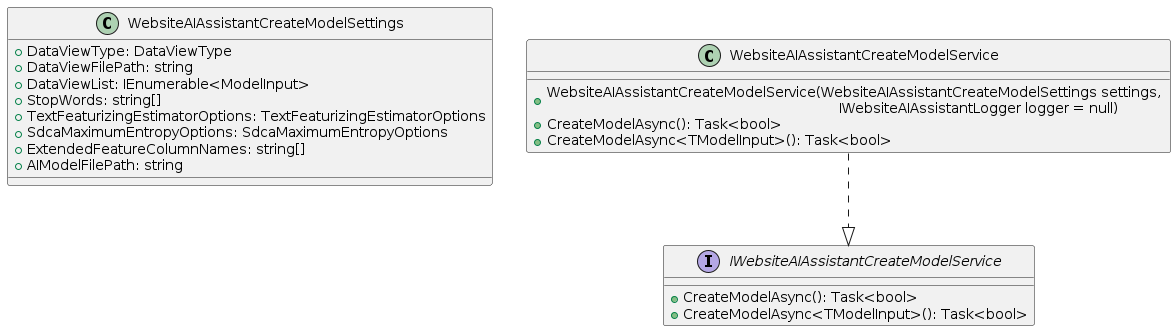
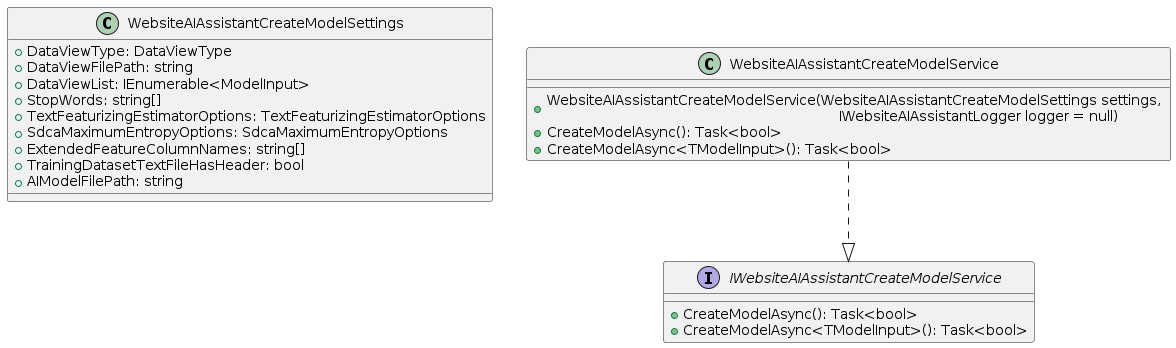
added TrainingDatasetTextFileHasHeader property to enable a header row in the training data file.

diff --git a/WebsiteAIAssistant/PredictionEngine.cs b/WebsiteAIAssistant/PredictionEngine.cs
@@ -30,6 +30,7 @@ namespace WebsiteAIAssistant
         public static string AIModelLoadFilePath { get; set; }
         public static bool IsPredictionEngineInitialized => _predictionEngine != null;
         public static string[] ExtendedFeatureColumnNames { get; set; } = null;
+        public static bool TrainingDatasetTextFileHasHeader { get; set; } = false;
         private static float ValidateThreshold(float threshold)
         {
             Logger?.LogInformation($"{nameof(PredictionEngine)}: {threshold}");
@@ -89,7 +90,7 @@ namespace WebsiteAIAssistant
 
                 dataView = mlContext.Data.LoadFromTextFile<TModelInput>(
                 path: DataViewFilePath,
-                hasHeader: false,
+                hasHeader: TrainingDatasetTextFileHasHeader,
                 separatorChar: '\t');
 
                 Logger?.LogInformation("Training data loaded successfully from file with {0} records.", mlContext.Data.CreateEnumerable<TModelInput>(dataView, reuseRowObject: false).Count());

diff --git a/WebsiteAIAssistant/WebsiteAIAssistantCreateModelService.cs b/WebsiteAIAssistant/WebsiteAIAssistantCreateModelService.cs
@@ -62,6 +62,7 @@ namespace WebsiteAIAssistant
             PredictionEngine.TextFeaturizingEstimatorOptions = _settings.TextFeaturizingEstimatorOptions;
             PredictionEngine.SdcaMaximumEntropyOptions = _settings.SdcaMaximumEntropyOptions;
             PredictionEngine.ExtendedFeatureColumnNames = _settings.ExtendedFeatureColumnNames;
+            PredictionEngine.TrainingDatasetTextFileHasHeader = _settings.TrainingDatasetTextFileHasHeader;
 
             _logger?.LogInformation("Creating model...");
             await PredictionEngine.CreateModelAsync<TModelInput>(_settings.AIModelFilePath);

diff --git a/WebsiteAIAssistant/WebsiteAIAssistantSettings.cs b/WebsiteAIAssistant/WebsiteAIAssistantSettings.cs
@@ -26,6 +26,7 @@ namespace WebsiteAIAssistant
         public TextFeaturizingEstimatorOptions TextFeaturizingEstimatorOptions { get; set; } = null;
         public SdcaMaximumEntropyOptions SdcaMaximumEntropyOptions { get; set; } = null;
         public string[] ExtendedFeatureColumnNames { get; set; } = null;
+        public bool TrainingDatasetTextFileHasHeader { get; set; } = false;
         public string AIModelFilePath { get; set; } = string.Empty;
     }
 }

diff --git a/Docs/README.md b/Docs/README.md
@@ -124,7 +124,9 @@ services.AddWebsiteAIAssistantCore<ModelInputExtended>(settings =>
 
 ## Usage
 
-If the AI model is trained using a text file, the file must be in a tab-separated format with two columns and no header.
+If the AI model is trained using a text file, the file must be in a tab-separated format with two columns and no header (by default). 
+
+If you want a header row, you must set the `TrainingDatasetTextFileHasHeader` property of the `PredictionEngine` or of the `WebsiteAIAssistantCreateModelSettings` to true.
 
 First column contains the category Label and the other column (Feature) contains the training text data.
 
@@ -425,6 +427,8 @@ await PredictionEngine.CreateModelAsync<ModelInputExtended>(modelPath);
 ```
 
 ##### The Unit tests on the model
+
+For making predictions in a multiple feature columns scenario, you must use the helper service `WebsiteAIAssistantService<TModelInput>`.
 
 You can see the inputs to the model along with the predicted category.
 
